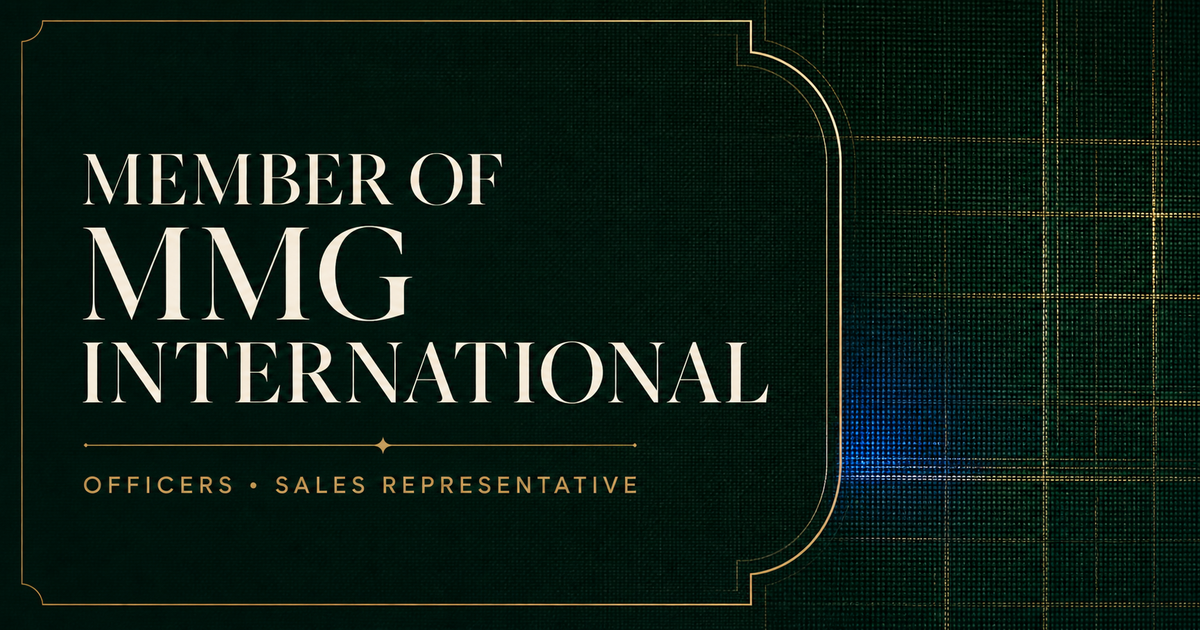
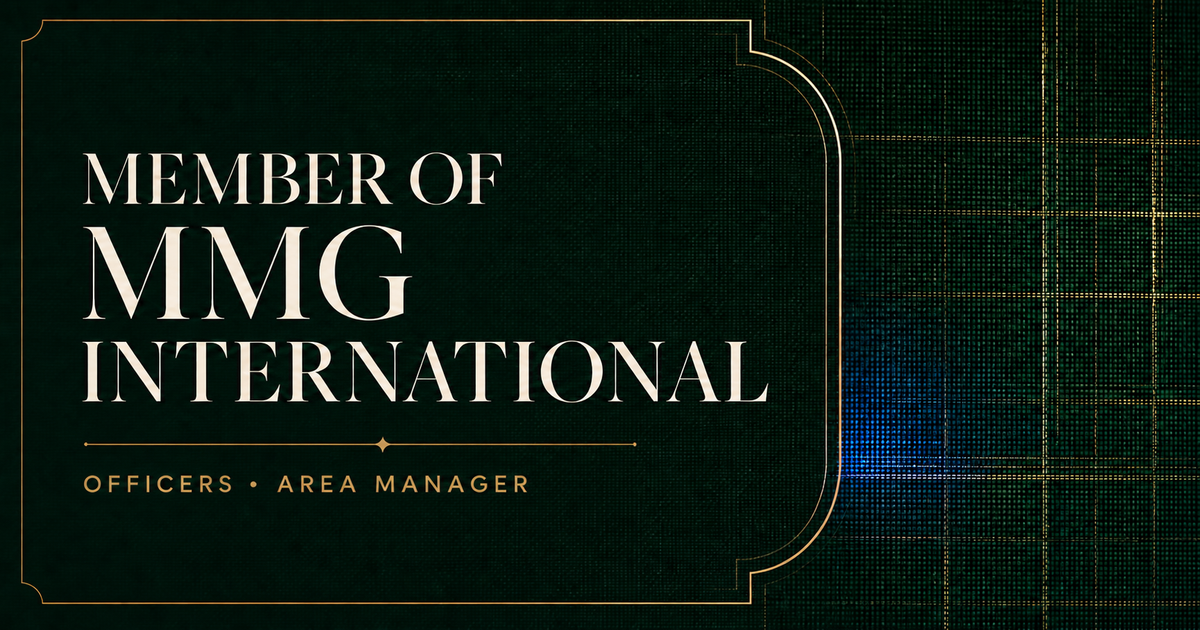
Update GM portrait and area manager role

diff --git a/src/components/MembersShowcase.jsx b/src/components/MembersShowcase.jsx
@@ -8,9 +8,9 @@ const officers = [
     role: 'General Manager',
     badge: 'GM',
     image: '/team/general-manager.webp',
-    width: 1200,
-    height: 900,
-    position: '50% 40%',
+    width: 1122,
+    height: 1402,
+    position: '50% 35%',
     number: '01',
     note: 'Leadership & direction',
   },
@@ -27,16 +27,16 @@ const officers = [
   },
 ]
 
-const salesRepresentative = {
+const areaManager = {
   name: 'Sohail Malik',
-  role: 'Sales Representative',
-  badge: 'Sales',
+  role: 'Area Manager',
+  badge: 'Area',
   image: '/team/sales-representative.webp',
   width: 1086,
   height: 1448,
   position: '50% 28%',
   number: '03',
-  note: 'Wholesale relationships',
+  note: 'Regional growth & relationships',
 }
 
 const titleLines = [
@@ -150,9 +150,9 @@ function OfficerCard({ member, index }) {
   )
 }
 
-function SalesCard() {
+function AreaManagerCard() {
   const reduceMotion = useReducedMotion()
-  const member = salesRepresentative
+  const member = areaManager
 
   return (
     <motion.article
@@ -225,7 +225,7 @@ export default function MembersShowcase() {
           >
             <Eyebrow light>Meet the people</Eyebrow>
             <p className="max-w-sm text-sm leading-7 text-white/50">
-              The officers and representative moving MMG International forward, together.
+              The leadership team moving MMG International forward, together.
             </p>
           </motion.div>
           <AnimatedTitle />
@@ -251,9 +251,9 @@ export default function MembersShowcase() {
           </div>
         </section>
 
-        <section aria-labelledby="sales-representative-heading" className="pt-24 sm:pt-32 lg:pt-40">
-          <GroupHeading number="02" title="Sales Representative" count="01 member" />
-          <SalesCard />
+        <section aria-labelledby="area-manager-heading" className="pt-24 sm:pt-32 lg:pt-40">
+          <GroupHeading number="02" title="Area Manager" count="01 member" />
+          <AreaManagerCard />
         </section>
       </div>
     </section>

diff --git a/index.html b/index.html
@@ -10,16 +10,16 @@
     />
     <meta property="og:type" content="website" />
     <meta property="og:title" content="MMG International | Meet the Team" />
-    <meta property="og:description" content="Meet the officers and sales representative moving MMG International forward." />
+    <meta property="og:description" content="Meet the officers and area manager moving MMG International forward." />
     <meta property="og:image" content="/og-team.png" />
     <meta property="og:image:width" content="1200" />
     <meta property="og:image:height" content="630" />
-    <meta property="og:image:alt" content="Member Of MMG International — Officers and Sales Representative" />
+    <meta property="og:image:alt" content="Member Of MMG International — Officers and Area Manager" />
     <meta name="twitter:card" content="summary_large_image" />
     <meta name="twitter:title" content="MMG International | Meet the Team" />
-    <meta name="twitter:description" content="Meet the officers and sales representative moving MMG International forward." />
+    <meta name="twitter:description" content="Meet the officers and area manager moving MMG International forward." />
     <meta name="twitter:image" content="/og-team.png" />
-    <meta name="twitter:image:alt" content="Member Of MMG International — Officers and Sales Representative" />
+    <meta name="twitter:image:alt" content="Member Of MMG International — Officers and Area Manager" />
     <link rel="icon" type="image/png" href="/mmg-international-logo.png" />
     <link rel="preload" as="image" href="/mmg-showroom-hero.png" fetchpriority="high" />
     <link rel="preconnect" href="https://fonts.googleapis.com" />
